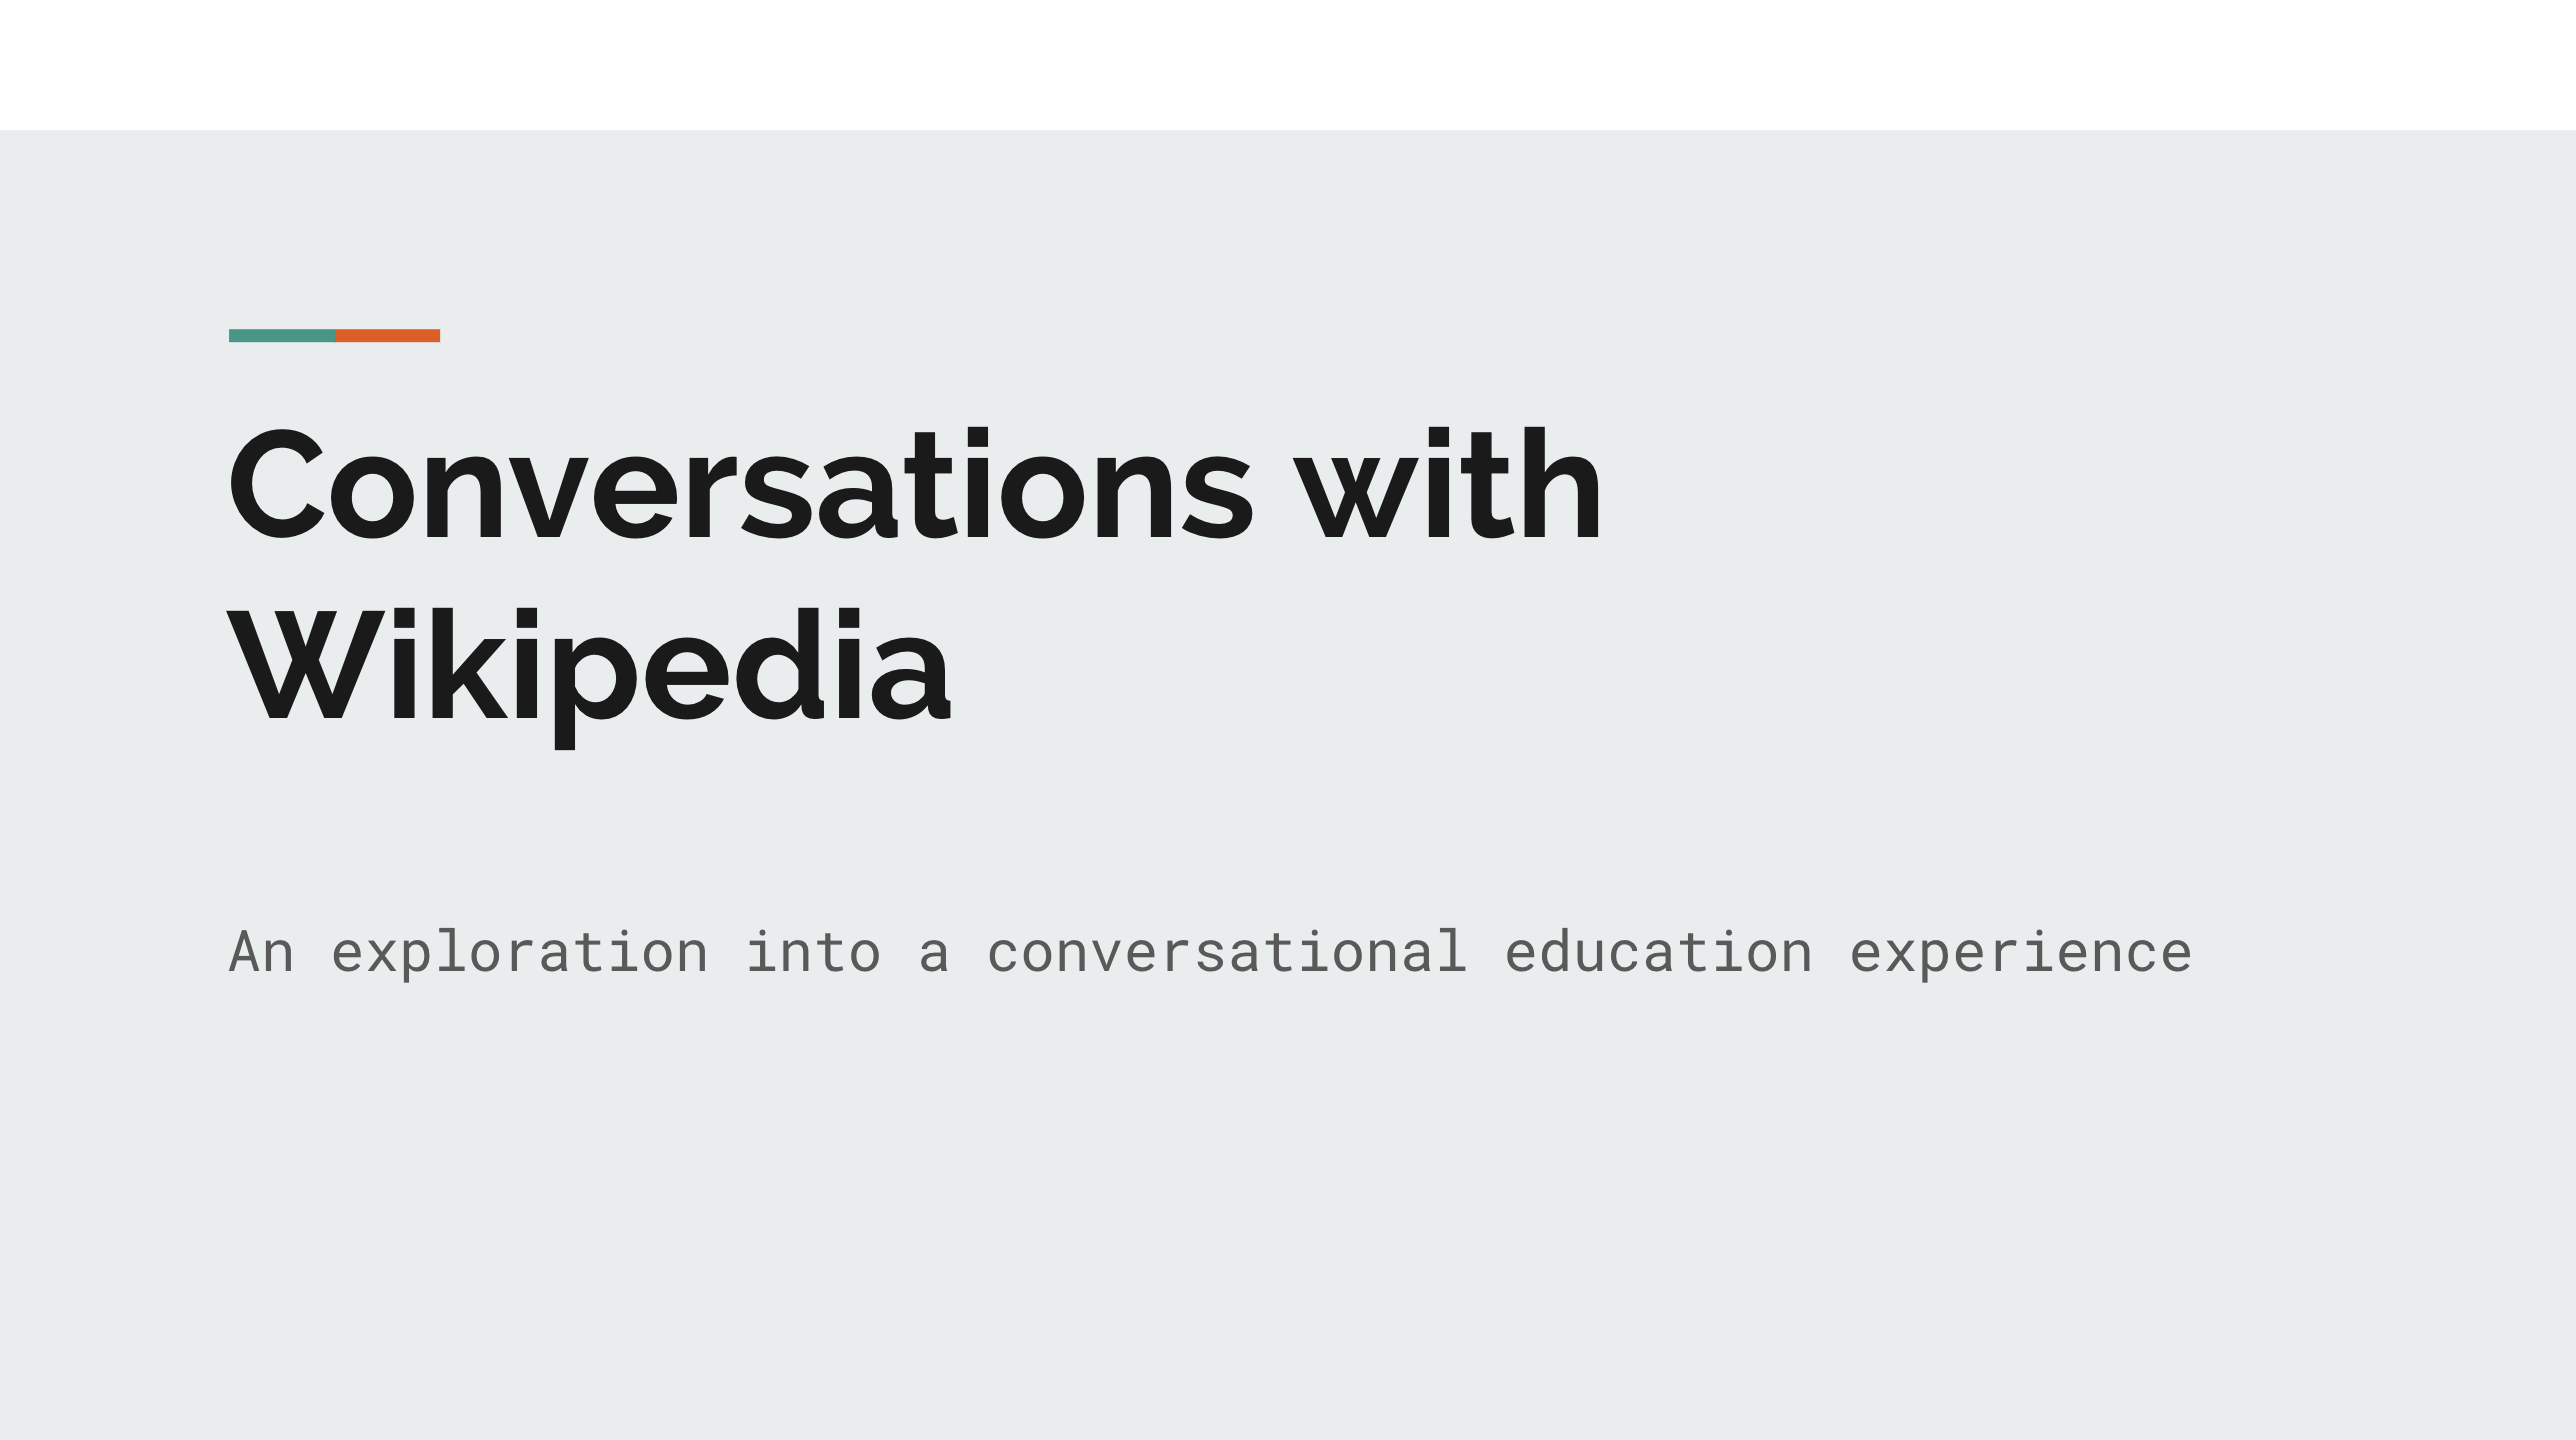
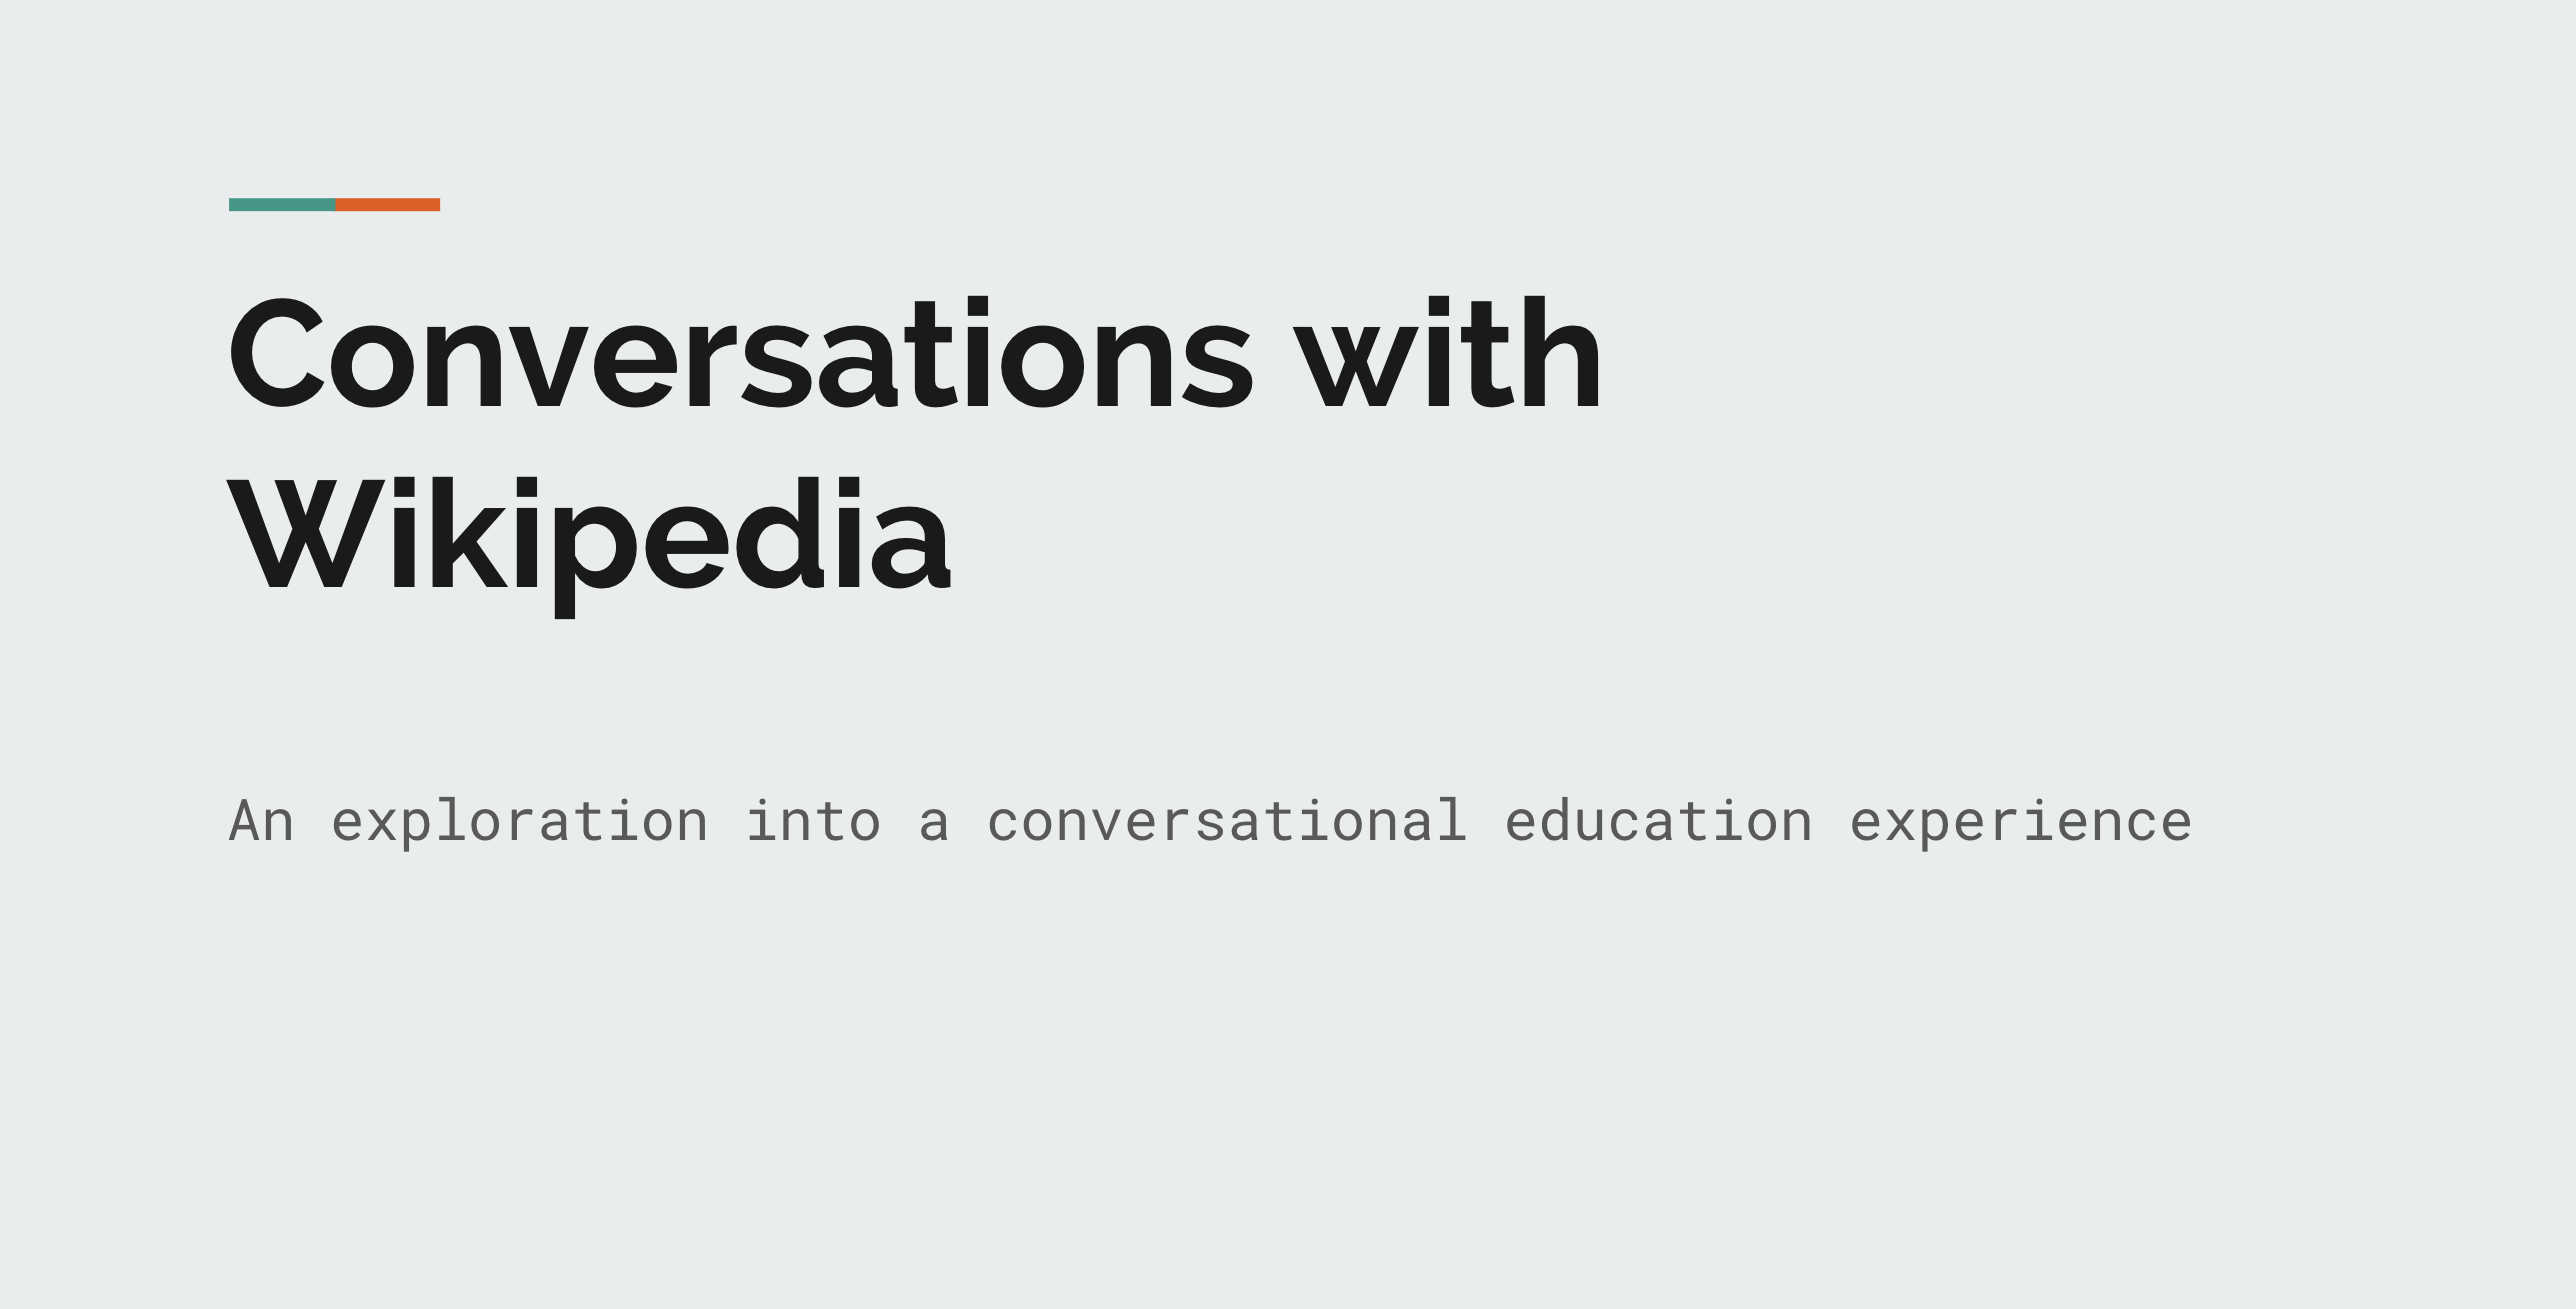
video link and header remove

Changed region(s): [[0.0932, 0.2139, 0.6211, 0.5195], [0.0932, 0.6112, 0.8696, 0.6723], [0.0932, 0.1528, 0.1863, 0.1833]]

diff --git a/README.md b/README.md
@@ -1,4 +1,4 @@
-![alt text](dependencies/titleimage.png "Conversations With Wikipedia")
+[![alt text](dependencies/titleimage.png "Conversations With Wikipedia")](https://youtu.be/HbTI6vV_3wI)
 
 ### How it works / Introduction
 
